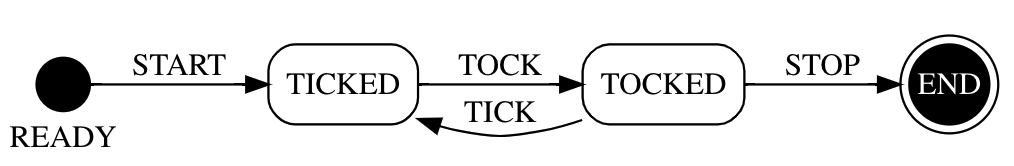
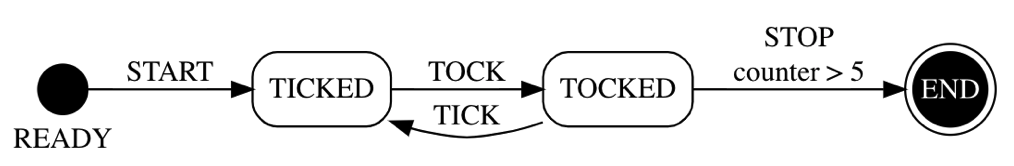
Adds condition to diagram generator

Changed region(s): [[0.0306, 0.1506, 1.0, 0.8434], [0.0, 0.753, 0.1223, 0.9036], [0.0306, 0.6325, 0.0917, 0.6928]]

diff --git a/dist/fsm.js b/dist/fsm.js
@@ -1,11 +1,10 @@
-(function(a,b){"object"==typeof exports&&"undefined"!=typeof module?module.exports=b():"function"==typeof define&&define.amd?define(b):(a=a||self,a.tpFSM=b())})(this,function(){'use strict';function a(a,b){const c=Object.keys(a);return c.includes(b)}function b(b){return function(c,d){if(a(b,d)&&c){const a=async function(){const a=await c.apply(this,arguments);return a.__actionName=d,a};return a.__actionName=d,a}throw new Error(`addAction invalid action: ${d}`)}}function c({pc0:a,actions:b,transitions:c,states:e,pc:g="pc",componentName:f,deterministic:h=!1,lax:i=!0,enforceAllowedTransitions:j=!1,blockUnexpectedActions:k=!1}){const m=d(e,c),n=Object.keys(m.states),o=[a=>()=>{const b=l(a,f,`${g}_1`),c=l(a,f,g),d=a.__actionName;if(!i&&!n.includes(c))a.__error=`unexpected state: ${c}`;else try{d&&b&&!m.states[b].transitions.includes(d)&&(a.__error=`unexpected action ${d} for state: ${c}`)}catch(b){a.__error=`unexpected error: ${b.message} for action ${d} and state: ${c}`}}];return k&&o.push(a=>()=>{const b=l(a,f,g),{transitions:c=[],guards:d=[]}=m.states[b];a.__blockUnexpectedActions=!0,a.__allowedActions=(a.__allowedActions||[]).concat(c.filter(b=>d.reduce((d,e)=>(e.action||c[0])===b?d&&e.condition(a):d&&!0,!0))),0===a.__allowedActions.length&&(a.__allowedActions=["__EMPTY"])}),o}function d(a,b){if(!a){let a;switch(typeof b){case"object":a=j(k(b));break;default:a=j(b);}return a}return{states:a}}function e({pc0:a,actions:b,states:c,transitions:e,pc:f,componentName:g,deterministic:h,lax:i,enforceAllowedTransitions:j}){const k=d(c,e),o=Object.keys(k.states);b=b||k.actions;const p=h?[a=>c=>{const d=l(a,g,f);!j||j&&k.states[d].transitions.includes(c.__actionName)?(m(a,g,`${f}_1`,d),m(a,g,f,n(b,c.__actionName))):a.__error=`unexpected action ${c.__actionName} for state: ${d}`}]:o.map(a=>k.states[a].acceptor);return p.push(a=>b=>{a.__actionName=b.__actionName}),p.push(a=>()=>{a.__allowedActions=[]}),p}function f({states:a,transitions:b,pc:c,componentName:e}){const f=d(a,b),g=Object.keys(f.states);return g.map(a=>(f.states[a].naps||[]).map(b=>({state:a,condition:b.condition,nextAction:b.nextAction}))).flat().map(a=>b=>()=>{if(b[c]===a.state&&a.condition(b))return a.nextAction(b),!1})}function g({pc0:a,actions:b,states:c,transitions:e,deterministic:f}){const g=d(c,e);b=b||g.actions;let h;const i=Object.keys(c).map(a=>(h=h||c[a]?.transitions&&c[a].transitions[0]?void 0:a,(c[a].transitions||[]).map(c=>o(a,b[c][0],c)).join("\n"))).join("\n"),j=`
+(function(a,b){"object"==typeof exports&&"undefined"!=typeof module?module.exports=b():"function"==typeof define&&define.amd?define(b):(a=a||self,a.tpFSM=b())})(this,function(){'use strict';function a(a,b){const c=Object.keys(a);return c.includes(b)}function b(b){return function(c,d){if(a(b,d)&&c){const a=async function(){const a=await c.apply(this,arguments);return a.__actionName=d,a};return a.__actionName=d,a}throw new Error(`addAction invalid action: ${d}`)}}function c({pc0:a,actions:b,transitions:c,states:e,pc:g="pc",componentName:f,deterministic:h=!1,lax:i=!0,enforceAllowedTransitions:j=!1,blockUnexpectedActions:k=!1}){const m=d(e,c),n=Object.keys(m.states),o=[a=>()=>{const b=l(a,f,`${g}_1`),c=l(a,f,g),d=a.__actionName;if(!i&&!n.includes(c))a.__error=`unexpected state: ${c}`;else try{d&&b&&!m.states[b].transitions.includes(d)&&(a.__error=`unexpected action ${d} for state: ${c}`)}catch(b){a.__error=`unexpected error: ${b.message} for action ${d} and state: ${c}`}}];return k&&o.push(a=>()=>{const b=l(a,f,g),{transitions:c=[],guards:d=[]}=m.states[b];a.__blockUnexpectedActions=!0,a.__allowedActions=(a.__allowedActions||[]).concat(c.filter(b=>d.reduce((d,e)=>(e.action||c[0])===b?d&&e.condition(a):d&&!0,!0))),0===a.__allowedActions.length&&(a.__allowedActions=["__EMPTY"])}),o}function d(a,b){if(!a){let a;switch(typeof b){case"object":a=j(k(b));break;default:a=j(b);}return a}return{states:a}}function e({pc0:a,actions:b,states:c,transitions:e,pc:f,componentName:g,deterministic:h,lax:i,enforceAllowedTransitions:j}){const k=d(c,e),o=Object.keys(k.states);b=b||k.actions;const p=h?[a=>c=>{const d=l(a,g,f);!j||j&&k.states[d].transitions.includes(c.__actionName)?(m(a,g,`${f}_1`,d),m(a,g,f,n(b,c.__actionName))):a.__error=`unexpected action ${c.__actionName} for state: ${d}`}]:o.map(a=>k.states[a].acceptor);return p.push(a=>b=>{a.__actionName=b.__actionName}),p.push(a=>()=>{a.__allowedActions=[]}),p}function f({states:a,transitions:b,pc:c,componentName:e}){const f=d(a,b),g=Object.keys(f.states);return g.map(a=>(f.states[a].naps||[]).map(b=>({state:a,condition:b.condition,nextAction:b.nextAction}))).flat().map(a=>b=>()=>{if(b[c]===a.state&&a.condition(b))return a.nextAction(b),!1})}function g({pc0:a,actions:b,states:c,transitions:e,deterministic:f}){const g=d(c,e);b=b||g.actions;let h;const i=Object.keys(c).map(a=>(h=h||c[a]?.transitions&&c[a].transitions[0]?void 0:a,(c[a].transitions||[]).map(d=>{const e=(c[a].guards||[]).reduce((b,a)=>a.action===d?a.condition.toString().split("return")[1].split(";")[0]:b,void 0);return o(a,b[d][0],d,e)}).join("\n"))).join("\n"),j=`
 digraph fsm_diagram {
 rankdir=LR;
 size="8,5"
 ${a} [shape = circle margin=0 fixedsize=true width=0.33 fontcolor=black style=filled color=black label="\\n\\n\\n${a}"]
-${a} [box]
 ${h?`${h} [shape = doublecircle margin=0 style=filled fontcolor=white color=black]`:"\n"}
 node [shape = Mrecord];
 ${i}
 }
-    `;return j}function h({componentName:a,pc0:d,actions:h,transitions:i,states:j,pc:k="pc",deterministic:l=!1,lax:n=!0,enforceAllowedTransitions:o=!1,blockUnexpectedActions:p=!1}){return{initialState:b=>(m(b,a,k,d),b.__actionName=void 0,b),addAction:b(h),stateMachine:c({componentName:a,pc0:d,actions:h,states:j,transitions:i,pc:k,deterministic:l,lax:n,enforceAllowedTransitions:o,blockUnexpectedActions:p}),acceptors:e({componentName:a,pc0:d,actions:h,states:j,transitions:i,pc:k,deterministic:l,lax:n,enforceAllowedTransitions:o}),naps:f({states:j,componentName:a,pc:k}),event:a=>{const b=()=>({__actionName:a});return b.__actionName=a,b},stateDiagram:g({pc0:d,actions:h,transitions:i,states:j,deterministic:l})}}const i=(b,c)=>(b.push(c),b),j=a=>({pc0:a[0].from,states:a.reduce((a,b)=>Object.assign(a,{[b.from]:{transitions:a[b.from]&&a[b.from].transitions&&a[b.from].transitions[0]?i(a[b.from].transitions,b.on):[b.on]},[b.to]:a[b.to]&&a[b.to].transitions[0]?a[b.to]:{transitions:b.to===b.from?[b.on]:[]}}),{}),actions:a.reduce((b,a)=>Object.assign(b,{[a.on]:[a.to]}),{}),deterministic:!0,enforceAllowedTransitions:!0}),k=a=>Object.keys(a).reduce((b,c)=>{const d=a[c],e=Object.keys(d);return b.concat(e.map(b=>({from:c,to:d[b],on:b})))},[]),l=(a,b,c)=>b?"function"==typeof a.localState?a.localState(b)[c]:a.__components?a.__components[b][c]:void 0:a[c],m=(a,b,c,d)=>(b?"function"==typeof a.localState?a.localState(b)[c]=d:a.__components={[b]:{[c]:d}}:a[c]=d,d),n=(a,b)=>a[b][0],o=(a,b,c="")=>`${a} -> ${b} [label = "${c}"];`;h.flattenTransitions=k,h.actionsAndStatesFor=j;return{fsm:h}});
+    `;return j}function h({componentName:a,pc0:d,actions:h,transitions:i,states:j,pc:k="pc",deterministic:l=!1,lax:n=!0,enforceAllowedTransitions:o=!1,blockUnexpectedActions:p=!1}){return{initialState:b=>(m(b,a,k,d),b.__actionName=void 0,b),addAction:b(h),stateMachine:c({componentName:a,pc0:d,actions:h,states:j,transitions:i,pc:k,deterministic:l,lax:n,enforceAllowedTransitions:o,blockUnexpectedActions:p}),acceptors:e({componentName:a,pc0:d,actions:h,states:j,transitions:i,pc:k,deterministic:l,lax:n,enforceAllowedTransitions:o}),naps:f({states:j,componentName:a,pc:k}),event:a=>{const b=()=>({__actionName:a});return b.__actionName=a,b},stateDiagram:g({pc0:d,actions:h,transitions:i,states:j,deterministic:l})}}const i=(b,c)=>(b.push(c),b),j=a=>({pc0:a[0].from,states:a.reduce((a,b)=>Object.assign(a,{[b.from]:{transitions:a[b.from]&&a[b.from].transitions&&a[b.from].transitions[0]?i(a[b.from].transitions,b.on):[b.on]},[b.to]:a[b.to]&&a[b.to].transitions[0]?a[b.to]:{transitions:b.to===b.from?[b.on]:[]}}),{}),actions:a.reduce((b,a)=>Object.assign(b,{[a.on]:[a.to]}),{}),deterministic:!0,enforceAllowedTransitions:!0}),k=a=>Object.keys(a).reduce((b,c)=>{const d=a[c],e=Object.keys(d);return b.concat(e.map(b=>({from:c,to:d[b],on:b})))},[]),l=(a,b,c)=>b?"function"==typeof a.localState?a.localState(b)[c]:a.__components?a.__components[b][c]:void 0:a[c],m=(a,b,c,d)=>(b?"function"==typeof a.localState?a.localState(b)[c]=d:a.__components={[b]:{[c]:d}}:a[c]=d,d),n=(a,b)=>a[b][0],o=(a,b,c="",d)=>`${a} -> ${b} [label = "${c}${d?`\\n${d}`:""}"];`;h.flattenTransitions=k,h.actionsAndStatesFor=j;return{fsm:h}});

diff --git a/lib/fsm.js b/lib/fsm.js
@@ -183,7 +183,7 @@ function stateMachineNaps({ states, transitions, pc, componentName }) {
     
 }
 
-const gvt = (start, end, action = '') => `${start} -> ${end} [label = "${action}"];`
+const gvt = (start, end, action = '', condition) => `${start} -> ${end} [label = "${action}${condition ? `\\n${condition}` : ''}"];`
 
 function renderGraphViz({ pc0, actions, states, transitions, deterministic }) {
     const specification = getStatesFrom(states, transitions)
@@ -191,7 +191,15 @@ function renderGraphViz({ pc0, actions, states, transitions, deterministic }) {
     let pcEnd
     const graphVizTransitions = Object.keys(states).map(state => {
         pcEnd = !pcEnd && (!states[state]?.transitions || !states[state].transitions[0]) ? state : undefined 
-        return (states[state].transitions || []).map(transition => gvt(state, actions[transition][0], transition)).join('\n')
+        return (states[state].transitions || []).map(transition => {
+            const condition = (states[state].guards || []).reduce( 
+                (a, c) => c.action === transition
+                    ? (c.condition.toString().split('return')[1]).split(';')[0] 
+                    : a, 
+                    undefined
+            )
+            return gvt(state, actions[transition][0], transition, condition )
+        }).join('\n')
     }).join('\n')
 
     const output = `
@@ -199,7 +207,6 @@ digraph fsm_diagram {
 rankdir=LR;
 size="8,5"
 ${pc0} [shape = circle margin=0 fixedsize=true width=0.33 fontcolor=black style=filled color=black label="\\n\\n\\n${pc0}"]
-${pc0} [box]
 ${pcEnd ? `${pcEnd} [shape = doublecircle margin=0 style=filled fontcolor=white color=black]` : '\n'}
 node [shape = Mrecord];
 ${graphVizTransitions}

diff --git a/test/fsm.test.js b/test/fsm.test.js
@@ -517,30 +517,26 @@ describe('FSM tests', () => {
     })
 
     it('should create a state diagram', () => {
-      const condition = ({ counter }) => counter < 5
+      const condition = ({ counter }) => counter > 5
       const clockD = fsm({
-        pc: 'status',
-        pc0: 'TICKED',
+        pc0: 'READY',
         actions: {
-          TICK_GUARDED: ['TICKED'],
-          TOCK_GUARDED: ['TOCKED'],
+          START: ['TICKED'],
+          TICK: ['TICKED'],
+          TOCK: ['TOCKED'],
           STOP: ['END']
         },
         states: {
+          READY: {
+            transitions: ['START'],
+          },
           TICKED: {
-            transitions: ['TOCK_GUARDED'],
-            guards: [{
-              action: 'TOCK_GUARDED',
-              // once the counter reaches 5, TICK_GUARDED and TOCK_GUARDED
-              // are no longer allowed
-              condition
-            }]
+            transitions: ['TOCK'],
           },
           TOCKED: {
-            transitions: ['TICK_GUARDED', 'STOP'],
+            transitions: ['TICK', 'STOP'],
             guards: [{
-              // The action name can be ommitted, in which case the first element of the transition
-              // action: 'TICK_GUARDED',
+              action: 'STOP',
               condition
             }]
           },

diff --git a/README.md b/README.md
@@ -416,12 +416,14 @@ size="8,5"
 READY [shape = circle margin=0 fixedsize=true width=0.33 fontcolor=black style=filled color=black label="\n\n\nREADY"]
 END [shape = doublecircle margin=0 style=filled fontcolor=white color=black]
 node [shape = Mrecord];
-READY -> TICKED [label = "START"]
+READY -> TICKED [label = "START"];
 TICKED -> TOCKED [label = "TOCK"];
 TOCKED -> TICKED [label = "TICK"];
-TOCKED -> END [label = "STOP"];
+TOCKED -> END [label = "STOP\n counter > 5"];
 }
 ```
+
+The diagram generator is capable of displaying conditions (see unit tests for an example):
 
 <img src="graphviz.png"
      style="width: 300px" />
@@ -439,6 +441,7 @@ Please see [the unit tests](https://github.com/jdubray/sam-fsm/tree/master/test)
 Please post your questions/comments on the [SAM-pattern forum](https://gitter.im/jdubray/sam)
 
 ## Change Log
+- 0.9.17  Adds GraphViz state diagram
 - 0.9.15  Adds tests for labeled SAM actions
 - 0.9.12  Minifies the lib  (3.4kB)
 - 0.9.11  Fixes minor defect, adds sample without `sam-pattern` library
